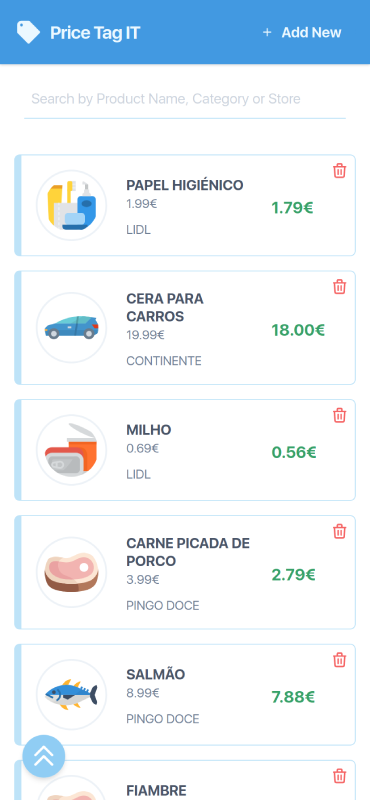
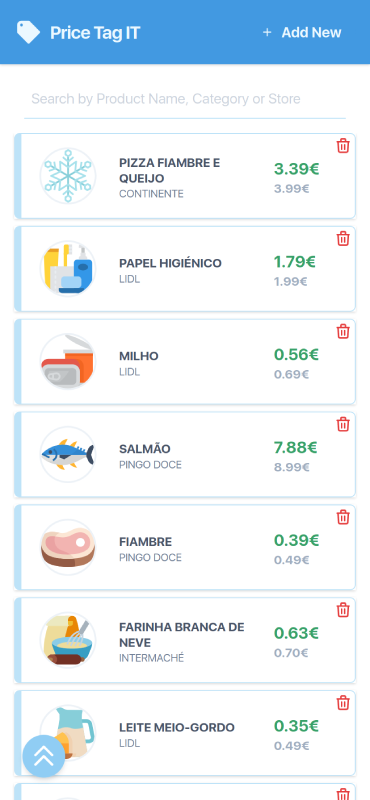
Changes to card layout to display more cards with less screen size.

diff --git a/src/components/ProductCard.js b/src/components/ProductCard.js
@@ -6,27 +6,27 @@ const ProductCard = ({ product, deleteItem }) => {
 
   return (
     <div className="relative items-center max-w-sm mx-auto">
-      <div className="static flex items-center w-sm border-solid border-l-8 border-blue-200 border mb-4 mx-auto flex p-4 rounded-md">
-      {!confirmDelete?<button onClick={() => setConfirmDelete(!confirmDelete)} className="absolute right-0 top-0 text-red-500 rounded-full p-2 focus:outline-none">
+      <div className="h-24 static flex items-center w-sm border-solid border-l-8 border-blue-200 border mb-2 mx-auto flex p-2 rounded-md">
+      {!confirmDelete?<button onClick={() => setConfirmDelete(!confirmDelete)} className="absolute right-0 top-0 text-red-600 rounded-full p-1 focus:outline-none">
         <svg className="h-5 w-5" xmlns="http://www.w3.org/2000/svg" fill="none" viewBox="0 0 24 24" stroke="currentColor">
         <path strokeLinecap="round" strokeLinejoin="round" strokeWidth="2" d="M19 7l-.867 12.142A2 2 0 0116.138 21H7.862a2 2 0 01-1.995-1.858L5 7m5 4v6m4-6v6m1-10V4a1 1 0 00-1-1h-4a1 1 0 00-1 1v3M4 7h16" />
         </svg>
         </button>:
-        <button onClick={() => deleteItem(product)} className="absolute right-0 top-0 text-red-500 rounded-full p-2 focus:outline-none">
+        <button onClick={() => deleteItem(product)} className="absolute right-0 top-0 text-red-600 rounded-full p-2 focus:outline-none">
         <svg className="h-5 w-5"  xmlns="http://www.w3.org/2000/svg" fill="none" viewBox="0 0 24 24" stroke="currentColor">
           <path strokeLinecap="round" strokeLinejoin="round" strokeWidth="2" d="M5 13l4 4L19 7" />
         </svg>
         </button>}
-        <div className="w-1/4 flex-shrink-0">
-          <img className="border-solid border-2 border-gray-200 h-20 w-20 bg-white rounded-full p-2" alt="" src={'/img/'+product.src}/>
+        <div className="w-1/4 ml-3 flex-shrink-0">
+          <img className="border-solid border-2 border-gray-200 h-16 bg-white rounded-full" alt="" src={'/img/'+product.src}/>
         </div>
-        <div className="w-1/2 ml-4 pt-1">
-          <h4 className="text-md font-bold text-gray-700 leading-tight uppercase">{product.name}</h4>
-          <p className  ="text-sm text-gray-600 leading-normal">{product.regular_price+'€'}</p>
-          <p className  ="text-sm pt-2 text-gray-600 leading-normal">{product.store.toUpperCase()}</p>
+        <div className="w-1/2 pt-1">
+          <h4 className="text-sm font-bold text-gray-700 leading-tight uppercase">{product.name}</h4>
+          <p className  ="text-xs text-gray-600 leading-normal">{product.store.toUpperCase()}</p>
         </div>
         <div className="w-1/4 ml-6 pt-1 mr-2">
-          <h4 className="text-lg items-end font-bold text-green-600 leading-tight uppercase">{product.promotion_price+'€'}</h4>
+          <h4 className="text-lg items-end font-bold text-green-600 leading-tight uppercase">{product.promotion_price? product.promotion_price+'€':'N/A'}</h4>
+          <p className="text-sm font-bold text-gray-500 leading-normal">{product.regular_price+'€'}</p>
         </div>
       </div>
     </div>

diff --git a/src/components/NavBar.js b/src/components/NavBar.js
@@ -9,7 +9,7 @@ const ProductCard = ({ product, searchText, addNew, changeWindow }) => {
         <svg className="h-8 w-8 mr-2" xmlns="http://www.w3.org/2000/svg" viewBox="0 0 20 20" fill="currentColor">
         <path d="M17.707 9.293a1 1 0 010 1.414l-7 7a1 1 0 01-1.414 0l-7-7A.997.997 0 012 10V5a3 3 0 013-3h5c.256 0 .512.098.707.293l7 7zM5 6a1 1 0 100-2 1 1 0 000 2z" />
         </svg>
-        <span className="font-semibold text-xl tracking-tight">Price Tag IT</span>
+        <span className="font-semibold text-xl tracking-tight">Price Tag It</span>
         </div>
         <button onClick={changeWindow} className="focus:outline-none bg-blue-500 text-blue-100 font-bold py-2 px-4 rounded-full inline-flex items-center">
         {!addNew?<svg className="fill-current w-4 h-4 mr-2 ml-1" xmlns="http://www.w3.org/2000/svg" fill="none" viewBox="0 0 24 24" stroke="currentColor"> <path strokeLinecap="round" strokeLinejoin="round" strokeWidth="2" d="M12 6v6m0 0v6m0-6h6m-6 0H6" /> </svg>:

diff --git a/src/components/ProductSearch.js b/src/components/ProductSearch.js
@@ -12,7 +12,7 @@ const ProductSearch = ({ searchText }) => {
   }
 
   return (
-    <div className='max-w-sm pt-12 rounded overflow-hidden my-10 mx-auto'>
+    <div className='max-w-sm pt-12 rounded overflow-hidden mt-10 mb-4 mx-auto'>
         <div className="flex items-center border-b border-b-2 border-blue-200 mx-3 py-2">
         <input id="search" onChange={e => {searchText(e.target.value); setText(e.target.value)}} className="appearance-none bg-transparent border-none w-full text-gray-700 mr-3 py-1 px-2 leading-tight focus:outline-none"
         type="text" placeholder="Search by Product Name, Category or Store" />
